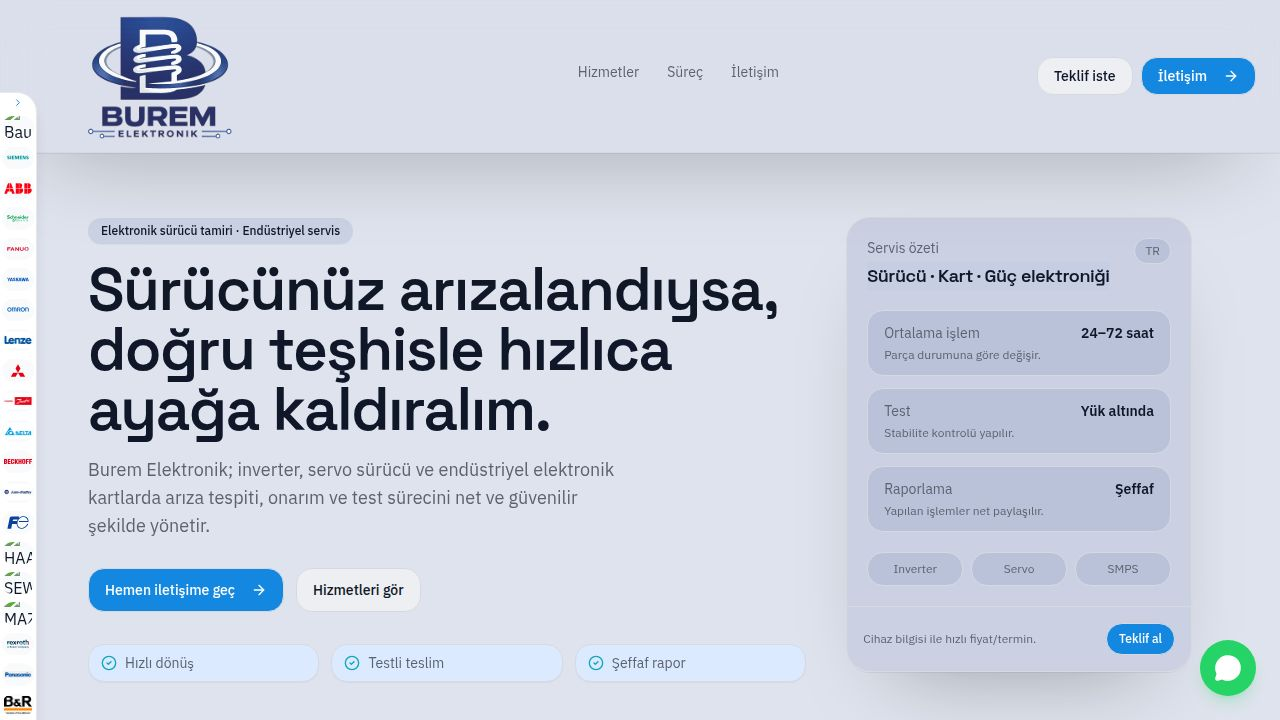
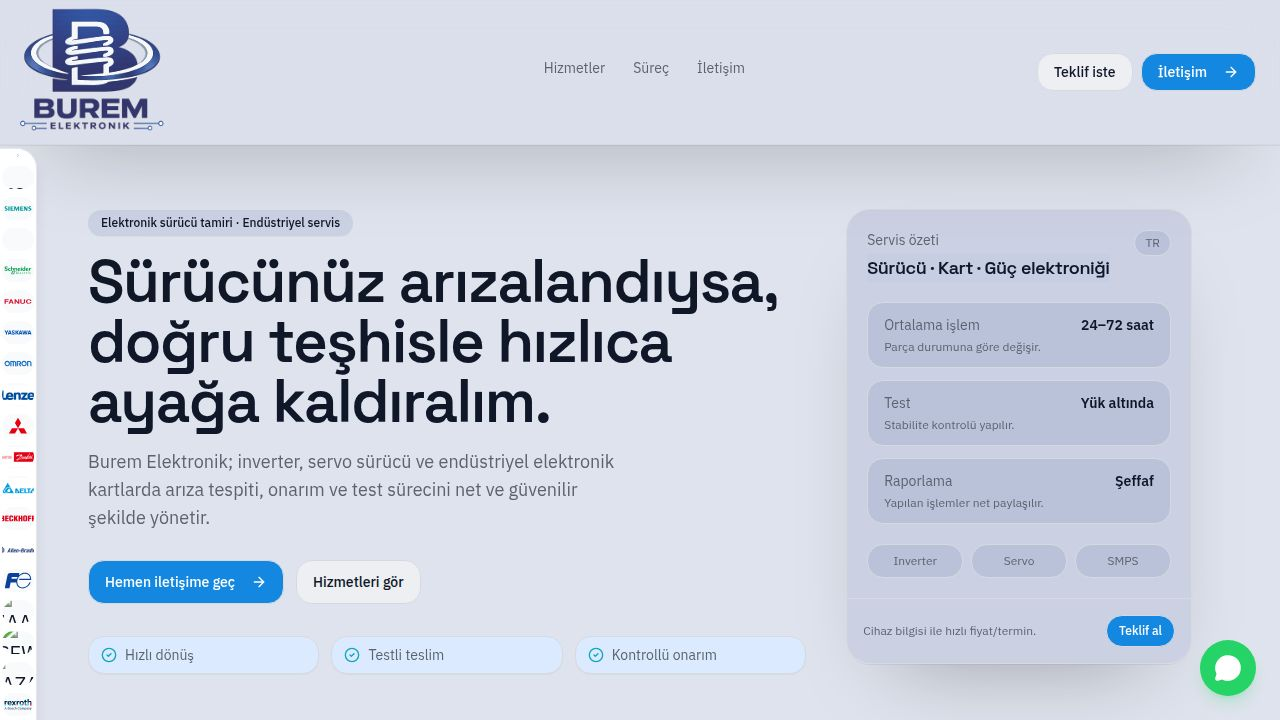
Update website appearance and fix application errors
Fixes JSX syntax errors, updates brand logos and text, and modifies the WhatsApp link.

Replit-Commit-Author: Agent
Replit-Commit-Session-Id: 371f6235-2fde-4516-bc43-82dd514ff68f
Replit-Commit-Checkpoint-Type: full_checkpoint
Replit-Commit-Event-Id: 23e7181c-ca6d-40ea-9f93-12045deb4d23
Replit-Commit-Screenshot-Url: https://storage.googleapis.com/screenshot-production-us-central1/220fef12-6025-4ca4-92d5-d8870d5c7179/371f6235-2fde-4516-bc43-82dd514ff68f/28Le7JU
Replit-Helium-Checkpoint-Created: true

diff --git a/client/src/pages/home.tsx b/client/src/pages/home.tsx
@@ -54,6 +54,7 @@ const BRANDS = [
   { name: "Rexroth", color: "#003366", logo: "https://www.logo.wine/a/logo/Bosch_Rexroth/Bosch_Rexroth-Logo.wine.svg" },
   { name: "Panasonic", color: "#003366", logo: "https://w7.pngwing.com/pngs/432/765/png-transparent-logo-panasonic-phone-panasonic-service-center-panasonic-india-pvt-ltd-others-blue-text-innovation.png" },
   { name: "B&R", color: "#003366", logo: "https://upload.wikimedia.org/wikipedia/commons/9/96/B%26R_Logo_Tagline_below_RGB_HD.jpg" }
+  
 ];
 
 function BrandsPopup() {
@@ -112,15 +113,15 @@ function BrandsPopup() {
           <div className="flex flex-col gap-2 py-1 overflow-hidden">
             {BRANDS.map((brand) => (
               <div key={brand.name} className="w-8 h-6 bg-gray-50 rounded-sm p-0.5 flex items-center justify-center overflow-hidden flex-1">
-                <img 
-                  src={brand.logo} 
-                  alt={brand.name}
-                  className="object-contain"
-                  style={{ 
-                    width: brand.name === "ABB" ? "100%" : "250%",
-                    height: brand.name === "ABB" ? "100%" : "250%"
-                  }}
-                />
+                <div className="h-16 flex items-center justify-center">
+                  <img
+                    src={brand.logo}
+                    alt={brand.name}
+                    className="max-h-14 w-auto object-contain transition-transform duration-200"
+                    style={{ transform: `scale(${brand.scale ?? 1.25})` }}
+                    draggable={false}
+                  />
+                </div>
               </div>
             ))}
           </div>
@@ -187,7 +188,7 @@ function BrandsPopup() {
                     src={brand.logo} 
                     alt={brand.name} 
                     className="h-full w-full object-contain transition-all duration-300"
-                    style={brand.scale ? { transform: `scale(${brand.scale})` } : undefined}
+                    style={brand.scale ? { transform: `scale(${brand.scale })` } : undefined}
                     onError={(e) => {
                       (e.target as HTMLImageElement).style.display = 'none';
                       (e.target as HTMLImageElement).nextElementSibling?.classList.remove('hidden');
@@ -222,7 +223,7 @@ function BrandsPopup() {
 function WhatsAppButton() {
   return (
     <motion.a
-      href="https://wa.me/905322"
+      href="https://wa.me/905322664764"
       target="_blank"
       rel="noopener noreferrer"
       initial={{ scale: 0, opacity: 0 }}
@@ -795,7 +796,7 @@ export default function HomePage() {
               </div>
 
               <div className="mt-8 grid gap-3 sm:grid-cols-3">
-                {["Hızlı dönüş", "Testli teslim", "Şeffaf rapor"].map((t) => (
+                {["Hızlı dönüş", "Testli teslim", "Kontrollü onarım"].map((t) => (
                   <div
                     key={t}
                     className="flex items-center gap-2 rounded-2xl border bg-blue-100 px-3 py-2 text-sm shadow-soft"
@@ -1074,7 +1075,7 @@ export default function HomePage() {
                 style={{ fontFamily: "Space Grotesk, var(--font-sans)" }}
                 data-testid="text-contact-title"
               >
-                Teklif & arıza bildirimi
+                Arıza bildirimi
               </h2>
               <p
                 className="mt-3 text-sm text-muted-foreground"
